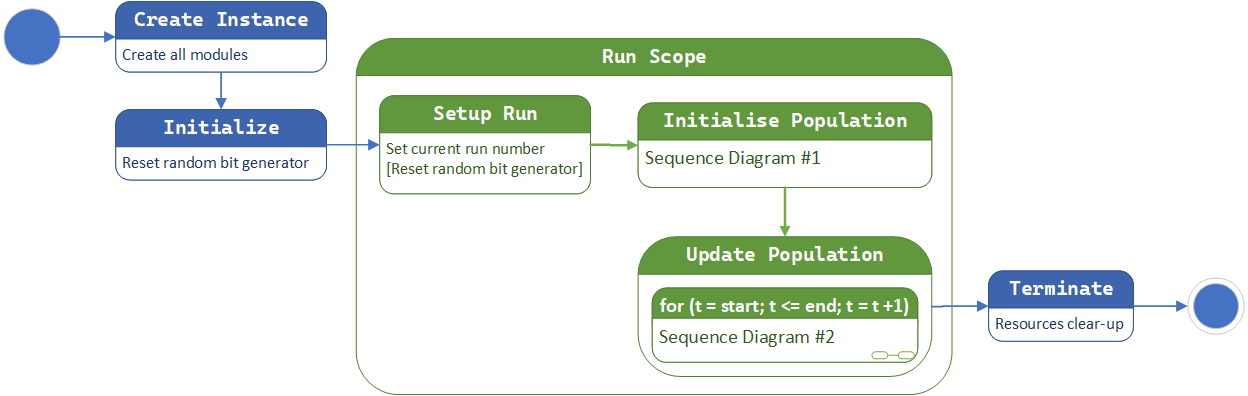
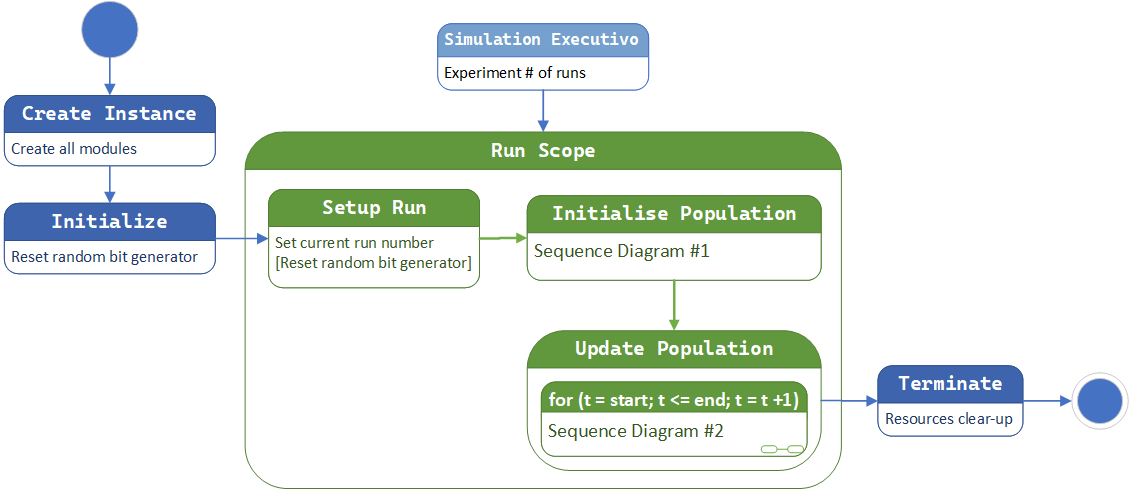
Added simulation engine documentation

Changed region(s): [[0.0, 0.0, 1.0, 1.0], [0.2476, 0.5758, 0.4023, 0.6061]]

diff --git a/architecture.md b/architecture.md
@@ -102,14 +102,37 @@ Helper methods are provided for easy access, for instance the `is_active` method
 
 # Simulation Engine
 
-The *simulation engine* requests the required modules instance to be created by the factory by type during the engine instance construction and owns the module instances during its lifespan. Below is the simulation engine lifecycle workflow, which is controlled externally by the simulation executive, with full control over the simulation time step advancements and duration of each run.
+The *simulation engine* is responsible for managing the simulation clock, events scheduling and simulation execution order. The Health GPS engine is based on the *Discrete Event System Specification* (DEVS) and provided by the [ADEVS](https://web.ornl.gov/~nutarojj/adevs) library. DEVS formalism is a system-theoretic concept that represents inputs, states, and outputs, like a *state machine*, but with the critical addition of a time-advance function. This combination enables DEVS models to represent discrete event systems, as well as hybrids with continuous components in a straightforward manner ([Zeigle and Muzy](https://www.sciencedirect.com/science/article/pii/S2405896317310601)). Health GPS describes a discrete event dynamic system, which can be advantageously represented as DEVS models for greater generality, clarity, and flexibility.
 
-|![Health GPS Simulation Engine](/assets/image/simulation_engine.png)|
+The DEVS model has been abstracted behind the `Simulation` base class, which defines the Health GPS simulation engine shown below, it adds extensions to support this specific workflow, and stores the `SimulationDefinition` data structure containing the minimum information required to create a simulation. The pseudorandom number generator functionality required by the model is defined by the `RandomBitGenerator` interface, algorithms for generating sequence of numbers can be implemented and easily used by the simulation engine at runtime.
+
+|![Health GPS Engine Interface](/assets/image/simulation_engine_interface.png)|
+|:--:|
+|*Health GPS Simulation Engine Interface*|
+
+The default implementation of the `Simulation` interface, the *simulation engine*, is provided by the `HealthGPS` class shown below. The *simulation engine* requests the module factory to create all the required modules type instances during construction. The engine owns the module instances created by the factory and has full control over the duration of each run and time step advancements during its lifespan. The `RuntimeContext` data structure is created by the *Health GPS engine* during construction to store the virtual population, and share common infrastructure, runtime information, and model settings with modules via calls to the public interface.
+
+|![Health GPS Engine](/assets/image/healthgps_engine.png)|
+|:--:|
+|*Health GPS Simulation Engine*|
+
+The engine enables communication with the outside world to update on progress, report errors, and publish simulation results via messaging, the `EventAggregator` and `EventSubscriber` interfaces define the required functionality that a concrete Message Bus implementation must provide as shown below. Four types of messages are current defined, however new messages can easily be added by extending the `EventMessage` interface, a single message is broadcasted to one or more subscribers. 
+
+|![Health GPS Engine](/assets/image/message_bus_interface.png)|
+|:--:|
+|*Health GPS Message Bus Interface*|
+
+A concrete *message bus* instance is provided to the *Health GPS engine* during construction and exposed by the `RuntimeContext` via the *publish* method to streamline usage. Messages can be sent *synchronous* or *asynchronous*, depending on specific requirements, for example, *error* messages need immediate attention before continuing, usually synchronous; while notification messages are typically queued before processing, may be asynchronous.
+
+The *simulation engine* internal workflow shown below, highlights the main algorithms executed during the Health GPS engine instance lifecycle, experiment scenario evaluation, and a single simulation run respectively. The number of simulation replications or runs required by an experiment is controlled externally by the *simulation executive*, which uses the same engine instance to complete multiple runs of the same scenario.
+
+|![Health GPS Engine Workflow](/assets/image/simulation_engine.png)|
 |:--:|
 |*Health GPS Simulation Engine Workflow*|
 
-The order of execution of each module and provision of parameters for each call is the responsibility of the simulation engine algorithm. Users can optionally provide a fixed seed to initialise the random number generator for reproducibility, the same generator instance is used throughout the simulation and depending on the run mode: baseline only vs. with intervention, the seed is reset for each run. The simulation engine consists of two main steps, *initialise*, and *update* the virtual population.
+The order of execution of each module and provision of parameters for each call is the responsibility of the simulation engine algorithm. The same random number generator instance is used throughout the simulation, the generator is initialised during the *Initialise* step, users can optionally provide a fixed seed to initialise the generator for reproducibility. This initialisation is sufficient for experiment with only *baseline* scenario, however experiments with *baseline* and *intervention* scenarios being evaluated together, the random number generator is reset before each run by the simulation executive to ensure reproducibility. The simulation engine consists of two main algorithms to *initialise* and *update* the virtual population over time respectively.
 
+## Initialise Population
 Creating and initialising the virtual population is the first step of a simulation run, below is the sequence diagram showing the events and order of activation of the different modules by the Health GPS algorithm.
 
 |![Health GPS Initialise Population](/assets/image/initialise_sequence.png)|
@@ -118,11 +141,14 @@ Creating and initialising the virtual population is the first step of a simulati
 
 The algorithm sets the simulation world clock, in years, to the user’s defined start time, and uses the simulation module interface to request each module to initialise the relevant properties of the virtual population individuals.
 
+## Update Population
 The update population algorithm is the heart of the Health GPS microsimulation, the sequence of events and order of activation for different modules during each time step update of the simulation is shown below. The algorithm moves the simulation clock, in years, forwards until the user’s defined end time is reached, at which point the algorithm terminates, finishing the run.
 
 |![Health GPS Update Population](/assets/image/update_sequence.png)|
 |:--:|
 |*Update Population Algorithm (Sequence Diagram #2)*|
+
+The empty squares in the Scenario timeline highlight data synchronisation points between the baseline and intervention scenarios, see next section for details.
 
 # Policy Scenarios
 
@@ -144,20 +170,20 @@ An alternative to this design is to use a message broker, e.g., [RabbitMQ](https
 
 # Simulation Executive
 
-The *executive* is responsible for managing the simulation clock and events scheduling is based on the *Discrete Event System Specification* (DEVS) and provided by the [ADEVS](https://web.ornl.gov/~nutarojj/adevs) library. The DEVS formalism is a system-theoretic concept that represents inputs, states, and outputs, like a *state machine*, but with the critical addition of a time-advance function. This combination enables DEVS models to represent discrete event systems, as well as hybrids with continuous components in a straightforward manner ([Zeigle and Muzy](https://www.sciencedirect.com/science/article/pii/S2405896317310601)). *Health GPS* describes a discrete event dynamic system, which can be advantageously represented as DEVS models for greater clarity and flexibility.
-
-To run the simulation under the requirements described above, a purposed build class has been designed as shown below, to create the simulation running environment, instruct the *simulation executive* to evaluate the scenarios for the user’s pre-defined number of runs, generate seeds and support for cancellation.
+The *simulation executive* creates the simulation running environment, instructs the *simulation engine* to evaluate the experiment scenarios for a pre-defined number of runs, manage master seeds generation, notify progress, and handle experiment for cancellation. The `ModelRunner` class shown below, implements the Health GPS executive.
 
 |![Health GPS Runner Class Diagram](/assets/image/model_runner.png)|
 |:--:|
-|*Model Runner Class Diagram*|
+|*Simulation Executive Class Diagram*|
 
-The *model runner* provides two modes of evaluating a simulation experiment, both using the run function, which can take overloaded parameters. Below is an illustration of the two execution paths, the first simulates the *baseline* scenario only, and the second simulates both *baseline* and *intervention* scenarios as a pair with data synchronisation as described above.
+Two modes of evaluating a simulation experiment as provided by the simulation executive, using the *run* function with overloaded parameters. The two  paths of execution are illustration below, the first simulates *no-intervention*, baseline scenario only experiments, while the second simulates *intervention* experiments with baseline and intervention scenarios evaluated as a pair, and data synchronisation as described above.
 
 |![Health GPS Simulation Runner](/assets/image/model_runner_activity.png)|
 |:--:|
 |*Model Runner Activity Diagram*|
 
-The experiment's scenarios are evaluated in parallel using multiple threads, however the need to exchange data between scenarios creates an indirect synchronisation with a small overhead. The model runner and simulation engine communicate with the outside world via messages, indicating the start and finish of the experiment, notifying run progress, handling cancellation, and publishing results at each simulated time step. An event monitor can be used to process messages, display progress on screen, stream over the internet, summarise results and/or log to file.
+Experiment scenarios are evaluated in parallel using multiple threads, however the need to exchange data between scenarios creates an indirect synchronisation with a small overhead. Like the simulation engine, the simulation executive communicates with the outside world via messages, ideally sharing the same message bus instance, indicating the start and finish of the experiment, notifying error and cancellation.
+
+An event monitor should be used to receive and process the simulation messages, display on screen, stream over the internet, summarise results and/or log to file.
 
 See the [Data Model](datamodel) and [Developer Guide](development) for detailed information on the backend data storage and *interfaces* concrete implementation.

diff --git a/index.md b/index.md
@@ -10,7 +10,7 @@ Health GPS creates a *virtual population* representative of a distinct country's
 The model uses proprietary equations to account for a variety of complex interactions such as risk factor-disease interactions and disease-disease interactions. Modellers are then able to evaluate health-related policies by changing some of the parameters and comparing the outputs with a *baseline* simulation. The model produces detailed quantitative outputs covering demographics, risk factors, diseases, mortality, global health estimates and health care expenditure, which could then be used to complement qualitative policy evaluation tools.
 
 ### General Workflow
-The Health GPS workflow is summarised below, datasets from many disconnected sources are used to define the various modules and components of the framework. Commonly used datasets are processed, aggregated, indexed by country and stored in the backend *datastore*, while research specific datasets are analysed externally to build the *risk factors* and *socio-economic status* modules, design and parameterise *intervention* to be tested.
+The Health GPS workflow is summarised below, datasets from many disconnected sources are used to define the various modules and components of the framework. Commonly used datasets are processed, aggregated, indexed by country, and stored in the backend *datastore*, while research specific datasets are analysed externally to build the *risk factors* and *socio-economic status* modules, design and parameterise *intervention* to be tested.
 
 |![Health GPS Workflow](/assets/image/general_workflow.png)|
 |:--:|
@@ -20,20 +20,20 @@ The simulation creates the virtual population, simulates the synthetic individua
 
 ## Demographics
 
-The population historical trends and projections are used to define the baseline scenario for the model. The model requires historical and projected populations by *year*, *age* and *gender* for each country of interest, covering the entire duration of the experiment. All data processing, units conversion, gap filling, smoothing, etc, must be carried out outside to produce the complete datasets required. The following demographic measures are required by the model:
+The population historical trends and projections are used to define the baseline scenario for the model. The model requires historical and projected populations by *year*, *age* and *gender* for each country of interest, covering the entire duration of the experiment. All data processing, units' conversion, gap filling, smoothing, etc, must be carried out outside to produce the complete datasets required. The following demographic measures are required by the model:
 
 * *Population size*
 * *Birth rates*
 * *Death rates*
 * *Residual Mortality* - deaths from non-modelled causes.
 
-Births, deaths, and immigration are the only drivers of changes in demographics in a population. While births and deaths modelling is data driven, finding accurate data about immigration is more challenging. *Net migration*, the net flow of migrants between two consecutive years, is estimated as the difference by age and gender between the simulated population and the expected population from the country's input data.
+Births, deaths, and immigration are the only drivers of changes in demographics in a population. While the births and deaths modelling are data driven, finding accurate data about immigration is more challenging. *Net migration*, the net flow of migrants between two consecutive years, is estimated as the difference by age and gender between the simulated population and the expected population from the country's input data.
 
 ### Socio-Economic Status (SES)
-SES plays an important role in the levels of risk factors observed within the population. The levels of income and education can influences the nature of diet, and physical activity. Health GPS models SES as a proxy value, combining education, income and other factors to represent specific groups within the population. Each individual SES value is attributed at birth by sampling from a *standard normal distribution* and stays constant over time.
+SES plays an important role in the levels of risk factors observed within the population. The levels of income and education can influence the nature of diet, and physical activity. Health GPS models SES as a proxy value, combining education, income, and other factors to represent specific groups within the population. Each individual SES value is attributed at birth by sampling from a *standard normal distribution* and stays constant over time.
 ## Risk Factors
 
-The population cultural and social behaviours are represented by *risk factors*, defined as any attributes that can influence the likelihood of acquiring a disease. Individual choices such as smoking, alcohol consumption, physical activity, and diet, can lead to long-term consequences such as hypertension, obesity and diabetes. Furthermore, certain diseases can be risk factors for other diseases or certain types of cancers.
+The population cultural and social behaviours are represented by *risk factors*, defined as any attributes that can influence the likelihood of acquiring a disease. Individual choices such as smoking, alcohol consumption, physical activity, and diet, can lead to long-term consequences such as hypertension, obesity, and diabetes. Furthermore, certain diseases can be risk factors for other diseases or certain types of cancers.
 
 The dynamics of risk factors modelling is a major challenge for health policy modellers, there are divergent opinions on the types and directions of causality between risk factors and diseases. *Health GPS* defines a dynamic hierarchical risk factor model structure, modellers can configure the hierarchy outside for different problems, fit parameters to data and provide to fully built model as part of the experiment configuration.
 
@@ -49,9 +49,9 @@ The calibration of the equations is carried out outside of the model by gender f
 
 ## Diseases
 
-Individuals may acquire new diseases for many reasons, including genetics, environment and lifestyles. The associations between risk factors and the incidence of certain types of diseases is a major subject being widely study. Health GPS accounts for the associations between risk factors and diseases by using equations to translate exposures to risk factors into probabilities that are used to simulate the incidence of diseases in the population.
+Individuals may acquire new diseases for many reasons, including genetics, environment, and lifestyles. The associations between risk factors and the incidence of certain types of diseases is a major subject being widely study. Health GPS accounts for the associations between risk factors and diseases by using equations to translate exposures to risk factors into probabilities that are used to simulate the incidence of diseases in the population.
 
-The association between risk factor and disease stays constant throughout the simulation, however any changes in the distribution of a risk factor, will still translate to more/fewer disease cases through relative risk equations. Any change in the prevalence of a disease is therefore solely caused by changes in risk factors distributions alongside the ageing effect on the simulated population. Health GPS supports two types of diseases: general *noncommunicable* diseases, and types of *cancer* respectively.
+The association between risk factor and disease stays constant throughout the simulation, however any changes in the distribution of a risk factor, will still translate to more/fewer disease cases through relative risk equations. Any change in the prevalence of a disease is therefore solely caused by changes in risk factors distributions alongside the ageing effect on the simulated population. Health GPS supports two groups of diseases: general *noncommunicable* diseases, and types of *cancer* respectively.
 
 ## Policy Evaluation
 The overall approach adopted to evaluate the impacts and cost-effectiveness of intervention policies to reduce childhood obesity using the policy simulation tool is based upon *“what-if”* analyses to quantify the causal relations between variables, scenarios can be classified as:
